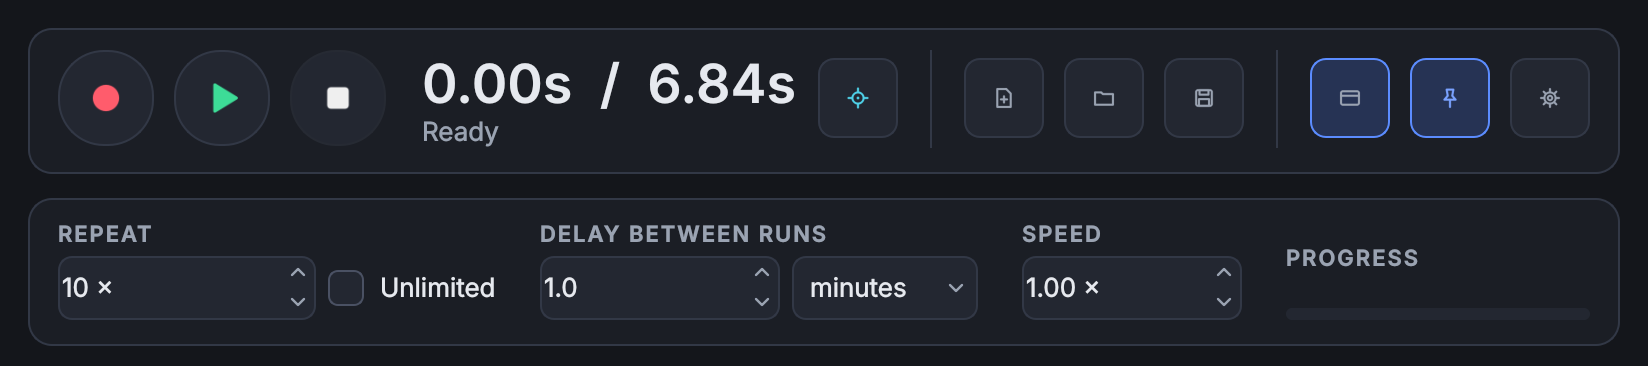
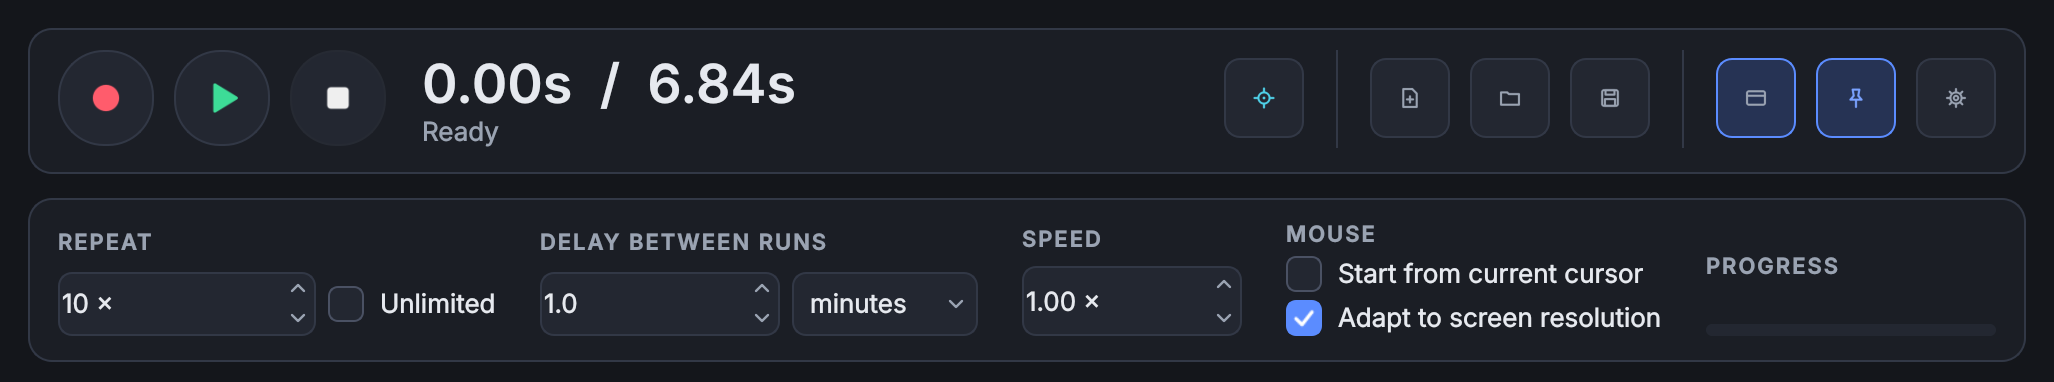
Add relative-start and resolution-adaptive playback; version 0.0.1
- 'Start from current cursor' shifts the macro so playback begins at the
  pointer's current position
- Macros store the screen resolution they were recorded on and positions
  are rescaled on playback (and when merging re-recorded takes)
- Resolution metadata is part of undo/redo; status bar shows it
- Version set to 0.0.1 so main publishes release v0.0.1

Claude-Session: https://claude.ai/code/session_019u2WfxX1vjCQSkqGS2C98Z

diff --git a/mttk/ui/main_window.py b/mttk/ui/main_window.py
@@ -37,14 +37,18 @@ class Bridge(QObject):
 
 
 class SetEventsCommand(QUndoCommand):
-    def __init__(self, win: "MainWindow", old, new, text):
+    def __init__(self, win: "MainWindow", old, new, text, old_meta=None, new_meta=None):
         super().__init__(text)
         self.win, self.old, self.new = win, list(old), list(new)
+        self.old_meta = dict(old_meta or {})
+        self.new_meta = dict(new_meta if new_meta is not None else self.old_meta)
 
     def redo(self):
+        self.win.meta = dict(self.new_meta)
         self.win._set_events(self.new)
 
     def undo(self):
+        self.win.meta = dict(self.old_meta)
         self.win._set_events(self.old)
 
 
@@ -90,6 +94,7 @@ class MainWindow(QMainWindow):
         self.settings = Settings.load()
         self.events: List[Event] = []
         self.file_path: Optional[str] = None
+        self.meta: dict = {}   # macro metadata, e.g. {"screen": [left, top, w, h]}
         self.state = IDLE
         self.clipboard = None  # (events, length)
         self.recorder = None
@@ -243,6 +248,25 @@ class MainWindow(QMainWindow):
         self.spin_speed.setMinimumWidth(90)
         prow.addWidget(labeled("Speed", self.spin_speed))
 
+        mouse_opts = QWidget()
+        mv = QVBoxLayout(mouse_opts)
+        mv.setContentsMargins(0, 0, 0, 0)
+        mv.setSpacing(4)
+        lbl = QLabel("MOUSE")
+        lbl.setObjectName("CardTitle")
+        mv.addWidget(lbl)
+        self.chk_relative = QCheckBox("Start from current cursor")
+        self.chk_relative.setChecked(s.relative_start)
+        self.chk_relative.setToolTip("Shift the whole recording so it starts where your mouse pointer is now,\n"
+                                     "instead of where it was when you recorded it.")
+        self.chk_adapt = QCheckBox("Adapt to screen resolution")
+        self.chk_adapt.setChecked(s.adapt_resolution)
+        self.chk_adapt.setToolTip("Rescale mouse positions when the macro was recorded on a different resolution\n"
+                                  "(e.g. recorded on 2560×1440, played on 1920×1080).")
+        mv.addWidget(self.chk_relative)
+        mv.addWidget(self.chk_adapt)
+        prow.addWidget(mouse_opts)
+
         prog = QWidget()
         pv = QVBoxLayout(prog)
         pv.setContentsMargins(0, 0, 0, 0)
@@ -264,6 +288,9 @@ class MainWindow(QMainWindow):
         for w in (self.spin_repeat, self.spin_delay, self.spin_speed):
             w.valueChanged.connect(self._save_playback_options)
         self.chk_infinite.toggled.connect(self._save_playback_options)
+        self.chk_relative.toggled.connect(self._save_playback_options)
+        self.chk_adapt.toggled.connect(self._save_playback_options)
+        self.chk_adapt.toggled.connect(lambda _on: self._update_screen_label())
         self.cmb_unit.currentTextChanged.connect(self._save_playback_options)
         root.addWidget(pb)
 
@@ -383,9 +410,11 @@ class MainWindow(QMainWindow):
         sb = self.statusBar()
         self.sb_events = QLabel()
         self.sb_duration = QLabel()
+        self.sb_screen = QLabel()
         self.sb_hotkeys = QLabel()
         sb.addWidget(self.sb_events)
         sb.addWidget(self.sb_duration)
+        sb.addWidget(self.sb_screen)
         sb.addPermanentWidget(self.sb_hotkeys)
         self._update_hotkey_hint()
 
@@ -477,6 +506,8 @@ class MainWindow(QMainWindow):
         s.delay_value = self.spin_delay.value()
         s.delay_unit = self.cmb_unit.currentText()
         s.speed = self.spin_speed.value()
+        s.relative_start = self.chk_relative.isChecked()
+        s.adapt_resolution = self.chk_adapt.isChecked()
         s.save()
 
     def open_settings(self):
@@ -545,13 +576,45 @@ class MainWindow(QMainWindow):
         moves = sum(1 for e in self.events if e.kind == MOVE)
         self.sb_events.setText(f"{n:,} events ({n - moves:,} actions, {moves:,} moves)")
         self.sb_duration.setText(f"Length {fmt_time(M.duration(self.events), 2)}")
+        self._update_screen_label()
         self._update_time_label()
         self._update_state_ui()
 
-    def apply_edit(self, new_events, text: str):
+    def apply_edit(self, new_events, text: str, meta: Optional[dict] = None):
         if self.state != IDLE:
             return
-        self.undo.push(SetEventsCommand(self, self.events, new_events, text))
+        self.undo.push(SetEventsCommand(self, self.events, new_events, text, self.meta, meta))
+
+    # ------------------------------------------------- screen / resolution
+    def _macro_screen(self):
+        scr = self.meta.get("screen")
+        return list(scr) if scr and len(scr) == 4 else None
+
+    def _update_screen_label(self):
+        scr = self._macro_screen()
+        if not self.events or not scr:
+            self.sb_screen.setText("")
+            return
+        cur = winutil.primary_screen_rect()
+        txt = f"Recorded at {scr[2]}×{scr[3]}"
+        if cur and list(cur) != scr:
+            txt += f"  →  this screen {cur[2]}×{cur[3]}" + ("" if self.chk_adapt.isChecked() else " (not adapting)")
+        self.sb_screen.setText(txt)
+
+    def _to_current_screen(self, events):
+        """Macro coordinates → coordinates for the screen we're playing on."""
+        if not self.chk_adapt.isChecked():
+            return list(events)
+        return M.scale_events(events, self._macro_screen(), winutil.primary_screen_rect())
+
+    def _prepare_for_playback(self, events):
+        events = self._to_current_screen(events)
+        if self.chk_relative.isChecked():
+            start = M.first_position(events)
+            if start:
+                cx, cy = winutil.cursor_pos()
+                events = M.offset_events(events, cx - start[0], cy - start[1])
+        return events
 
     def _update_title(self):
         name = os.path.basename(self.file_path) if self.file_path else "Untitled"
@@ -572,7 +635,8 @@ class MainWindow(QMainWindow):
         self.btn_record.setEnabled(self.state in (IDLE, RECORDING, COUNTDOWN))
         self.btn_play.setEnabled((idle and has) or self.state == PLAYING)
         self.btn_stop.setEnabled(not idle)
-        for w in (self.spin_repeat, self.chk_infinite, self.spin_delay, self.cmb_unit, self.spin_speed):
+        for w in (self.spin_repeat, self.chk_infinite, self.spin_delay, self.cmb_unit, self.spin_speed,
+                  self.chk_relative, self.chk_adapt):
             w.setEnabled(idle)
         if idle:
             self.spin_repeat.setEnabled(not self.chk_infinite.isChecked())
@@ -801,6 +865,10 @@ class MainWindow(QMainWindow):
 
         if mode in ("replace", "insert") and self.settings.move_cursor_before_rerecord:
             pos = M.cursor_position_at(self.events, self._rec_ctx["start"])
+            if pos and self._macro_screen():
+                mapped = M.scale_events([Event(0.0, MOVE, x=pos[0], y=pos[1])], self._macro_screen(),
+                                        winutil.primary_screen_rect())
+                pos = (mapped[0].x, mapped[0].y)
             if pos:
                 try:
                     from pynput.mouse import Controller
@@ -885,21 +953,29 @@ class MainWindow(QMainWindow):
         self.timeline.set_overlay("")
         self._restore_after_task()
         ctx = self._rec_ctx
+        current = winutil.primary_screen_rect()
+        meta = dict(self.meta)
+        if ctx["mode"] == "new" or not self.events or not self._macro_screen():
+            if clip and current:
+                meta["screen"] = list(current)
+        elif current and self._macro_screen() != list(current):
+            # a take recorded on another resolution: store it in the macro's coordinates
+            clip = M.scale_events(clip, current, self._macro_screen())
         if ctx["mode"] == "new":
             if clip:
-                self.apply_edit(clip, "Record")
+                self.apply_edit(clip, "Record", meta)
                 self.timeline.set_selection(None)
                 self.timeline.set_playhead(0.0, emit=True)
                 self.timeline.zoom_fit()
             self.lbl_status.setText(f"Recorded {len(clip)} events ({fmt_time(M.duration(clip), 2)})")
         elif ctx["mode"] == "replace":
             a, b = ctx["start"], ctx["end"]
-            self.apply_edit(M.replace_range(self.events, a, b, clip, length), "Re-record selection")
+            self.apply_edit(M.replace_range(self.events, a, b, clip, length), "Re-record selection", meta)
             self.timeline.set_selection((a, a + length))
             self.lbl_status.setText(f"Replaced {b - a:.2f}s with a new {length:.2f}s take")
         else:
             t = ctx["start"]
-            self.apply_edit(M.insert_at(self.events, t, clip, length), "Insert recording")
+            self.apply_edit(M.insert_at(self.events, t, clip, length), "Insert recording", meta)
             self.timeline.set_selection((t, t + length))
             self.lbl_status.setText(f"Inserted {length:.2f}s at {fmt_time(t, 2)}")
         self._update_state_ui()
@@ -939,6 +1015,7 @@ class MainWindow(QMainWindow):
         self._play_duration = max(M.duration(events), 1e-6)
         self._play_runs = repeats
         b = self.bridge
+        events = self._prepare_for_playback(events)
         self.player = Player(events, repeats=repeats, delay=delay, speed=self.spin_speed.value(),
                              release_on_stop=s.release_keys_on_stop,
                              on_progress=b.progress.emit, on_wait=b.waiting.emit, on_finished=b.finished.emit)
@@ -1049,6 +1126,7 @@ class MainWindow(QMainWindow):
         if self.state != IDLE or not self._confirm_discard():
             return
         self.file_path = None
+        self.meta = {}
         self.undo.clear()
         self._set_events([])
         self.timeline.set_selection(None)
@@ -1072,6 +1150,7 @@ class MainWindow(QMainWindow):
         self.settings.last_dir = os.path.dirname(path)
         self.settings.save()
         self.undo.clear()
+        self.meta = dict(macro.meta or {})
         self._set_events(macro.events)
         self.timeline.set_selection(None)
         self.timeline.set_playhead(0.0, emit=True)
@@ -1082,7 +1161,7 @@ class MainWindow(QMainWindow):
         if not self.file_path:
             return self.save_as()
         try:
-            Macro(self.events, meta={"app_version": __version__}).save(self.file_path)
+            Macro(self.events, meta={**self.meta, "app_version": __version__}).save(self.file_path)
         except Exception as exc:
             QMessageBox.critical(self, APP_NAME, f"Could not save:\n{exc}")
             return False

diff --git a/mttk/model.py b/mttk/model.py
@@ -292,6 +292,48 @@ def rebase(events: Sequence[Event]) -> List[Event]:
     return [e.shifted(-t0) for e in events]
 
 
+# ------------------------------------------------- coordinate transforms
+
+POSITIONAL = (MOVE, CLICK, SCROLL)
+
+
+def first_position(events: Sequence[Event]) -> Optional[tuple]:
+    for e in events:
+        if e.kind in POSITIONAL:
+            return e.x, e.y
+    return None
+
+
+def offset_events(events: Sequence[Event], dx: int, dy: int) -> List[Event]:
+    """Move every mouse position by (dx, dy)."""
+    if not dx and not dy:
+        return list(events)
+    return [replace(e, x=e.x + dx, y=e.y + dy) if e.kind in POSITIONAL else e for e in events]
+
+
+def scale_events(events: Sequence[Event], src: Sequence[int], dst: Sequence[int]) -> List[Event]:
+    """Map mouse positions from screen rect ``src`` to ``dst``.
+
+    Rects are ``(left, top, width, height)`` in physical pixels, e.g. a macro
+    recorded on 2560x1440 replayed on 1920x1080 is scaled by 0.75 on both axes.
+    """
+    if not src or not dst or tuple(src) == tuple(dst):
+        return list(events)
+    sl, st, sw, sh = src
+    dl, dt_, dw, dh = dst
+    if sw <= 0 or sh <= 0:
+        return list(events)
+    fx, fy = dw / sw, dh / sh
+
+    def tx(x):
+        return int(round(dl + (x - sl) * fx))
+
+    def ty(y):
+        return int(round(dt_ + (y - st) * fy))
+
+    return [replace(e, x=tx(e.x), y=ty(e.y)) if e.kind in POSITIONAL else e for e in events]
+
+
 # ---------------------------------------------------------------- file io
 
 @dataclass

diff --git a/tests/test_model.py b/tests/test_model.py
@@ -84,3 +84,27 @@ def test_save_load_roundtrip():
     path = os.path.join(tempfile.mkdtemp(), "m.mttk")
     M.Macro(events).save(path)
     assert M.Macro.load(path).events == events
+
+
+def test_scale_events_2k_to_1080p():
+    events = [ev(0.0, x=2560 // 2, y=1440 // 2), ev(0.1, CLICK, x=2559, y=0, button="left"),
+              ev(0.2, KEY, key_name="enter")]
+    out = M.scale_events(events, (0, 0, 2560, 1440), (0, 0, 1920, 1080))
+    assert (out[0].x, out[0].y) == (960, 540)
+    assert (out[1].x, out[1].y) == (1919, 0)
+    assert out[2] == events[2]
+
+
+def test_scale_events_identity_and_offset_origin():
+    events = [ev(0.0, x=100, y=100)]
+    assert M.scale_events(events, (0, 0, 1920, 1080), (0, 0, 1920, 1080)) == events
+    out = M.scale_events([ev(0.0, x=-1920, y=0)], (-1920, 0, 1920, 1080), (0, 0, 1280, 720))
+    assert (out[0].x, out[0].y) == (0, 0)
+
+
+def test_offset_events_relative_start():
+    events = [ev(0.0, KEY, char="a"), ev(0.1, x=500, y=500), ev(0.2, CLICK, x=600, y=550, button="left")]
+    assert M.first_position(events) == (500, 500)
+    out = M.offset_events(events, 100 - 500, 200 - 500)
+    assert [(e.x, e.y) for e in out[1:]] == [(100, 200), (200, 250)]
+    assert out[0] == events[0]

diff --git a/mttk/winutil.py b/mttk/winutil.py
@@ -92,3 +92,24 @@ def window_rect_physical(widget):
     g = widget.frameGeometry()
     r = widget.devicePixelRatioF()
     return int(g.left() * r), int(g.top() * r), int((g.right() + 1) * r), int((g.bottom() + 1) * r)
+
+
+def primary_screen_rect():
+    """(left, top, width, height) of the primary monitor in physical pixels.
+
+    Mouse coordinates are recorded in the same physical-pixel space, so a
+    macro's coordinates can be rescaled between resolutions with this rect.
+    """
+    if IS_WINDOWS:
+        try:
+            return [0, 0, int(_user32.GetSystemMetrics(0)), int(_user32.GetSystemMetrics(1))]
+        except Exception:
+            pass
+    try:
+        from PySide6.QtGui import QGuiApplication
+        screen = QGuiApplication.primaryScreen()
+        g = screen.geometry()
+        r = screen.devicePixelRatio()
+        return [int(g.x() * r), int(g.y() * r), int(round(g.width() * r)), int(round(g.height() * r))]
+    except Exception:
+        return None

diff --git a/mttk/settings.py b/mttk/settings.py
@@ -45,6 +45,8 @@ class Settings:
     delay_unit: str = "seconds"
     speed: float = 1.0
     release_keys_on_stop: bool = True
+    relative_start: bool = False      # start from the current cursor position
+    adapt_resolution: bool = True     # rescale mouse positions to this screen
     # mouse centring
     center_target: str = "cursor"  # 'cursor' or 'primary'
     center_duration_ms: int = 350

diff --git a/mttk/__init__.py b/mttk/__init__.py
@@ -1,4 +1,4 @@
 """More Than Tiny Task - a macro recorder with a timeline editor."""
 
-__version__ = "1.0.0"
+__version__ = "0.0.1"
 APP_NAME = "More Than Tiny Task"
